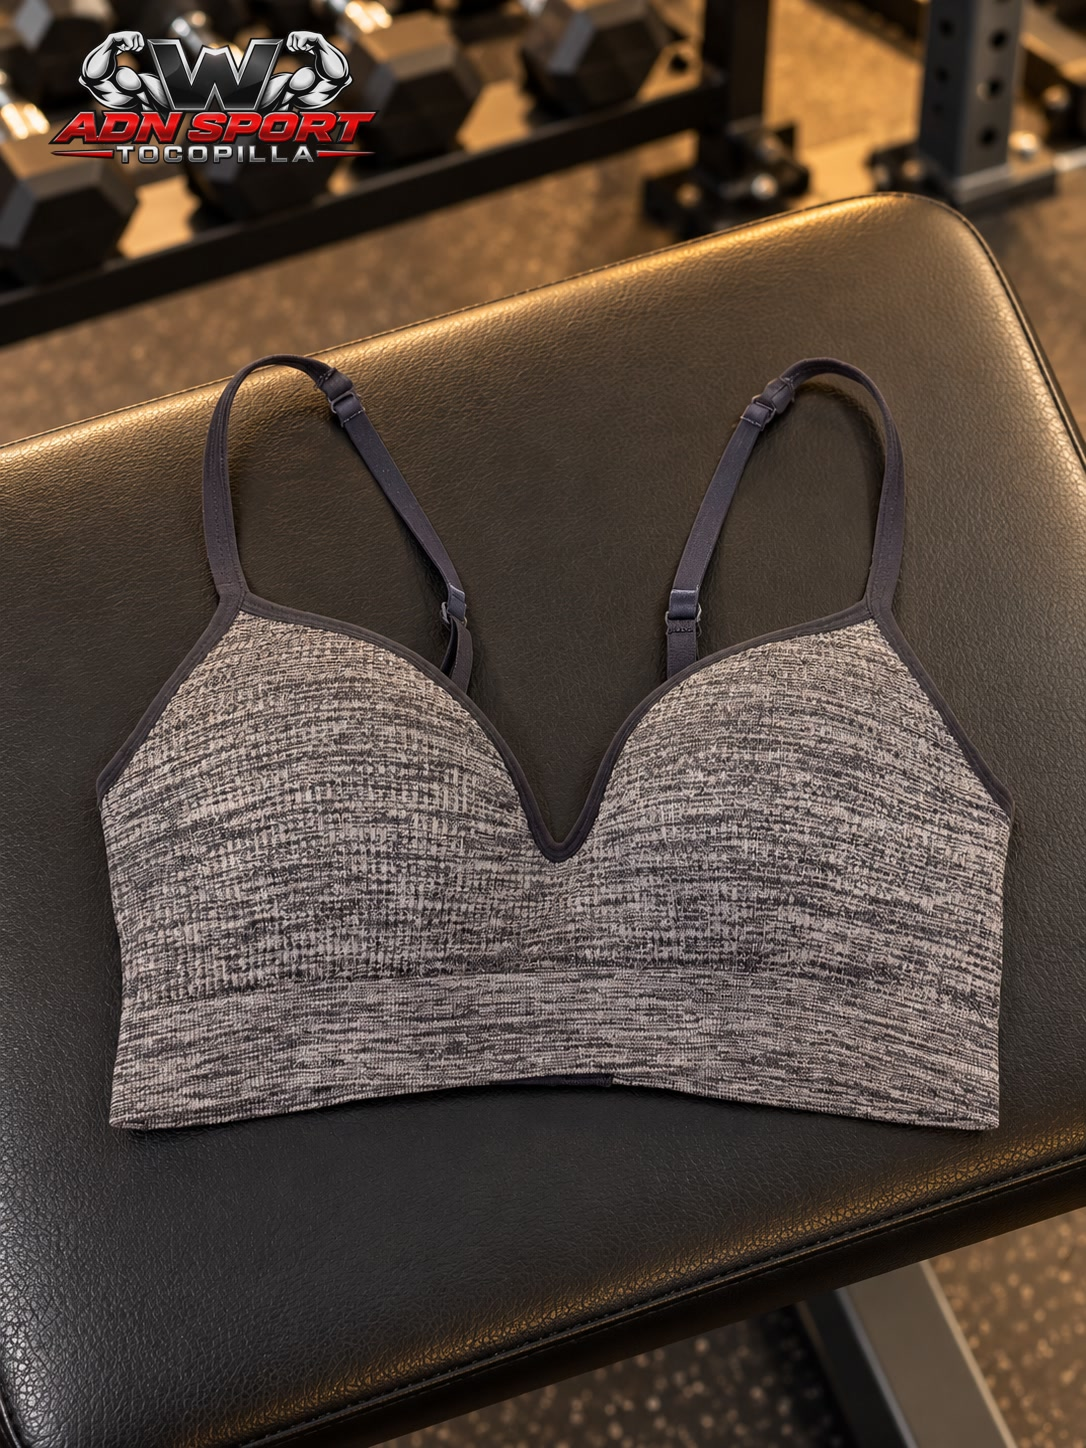
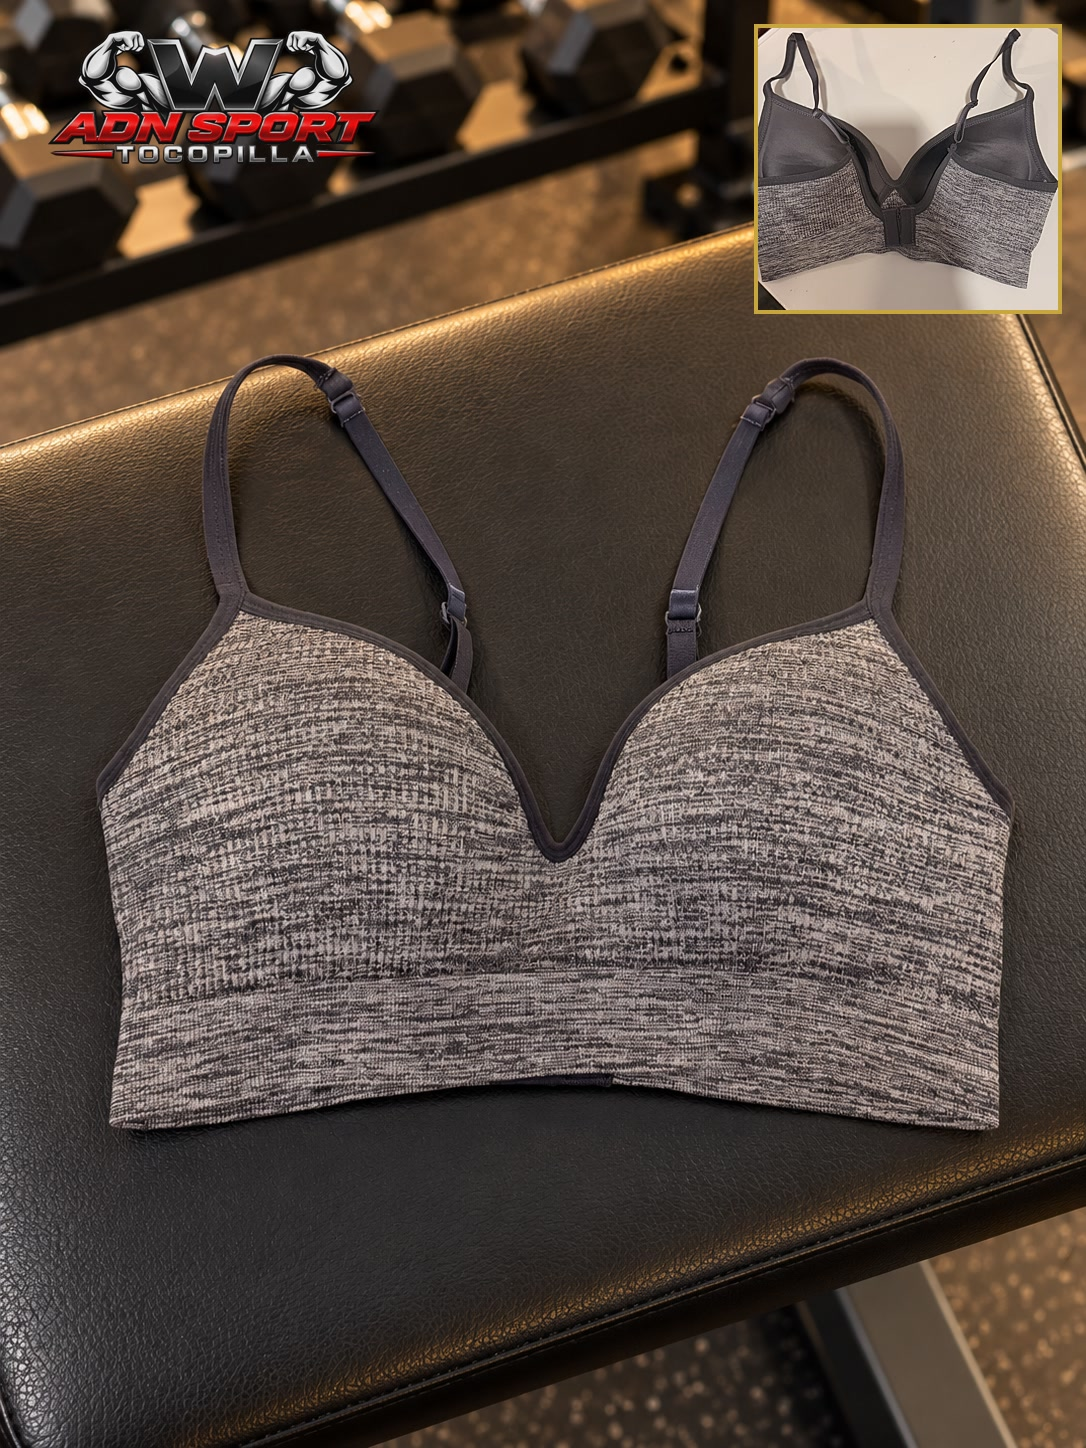
Tienda: top gris con cuadro de la espalda
Claude-Session: https://claude.ai/code/session_013ZgZPSRHEDhMsqmx8Km842

Changed region(s): [[0.6685, 0.0, 1.0, 0.2175]]

diff --git a/tienda.html b/tienda.html
@@ -252,7 +252,7 @@ function hoyISO(){ return new Intl.DateTimeFormat("en-CA", { timeZone:"America/S
 function ahoraTxt(){ var f = new Intl.DateTimeFormat("sv-SE", { timeZone:"America/Santiago", year:"numeric", month:"2-digit", day:"2-digit", hour:"2-digit", minute:"2-digit" }).format(new Date()); return f.replace("T", " ").slice(0, 16); }
 function normTxt(s){ return String(s || "").toUpperCase().normalize("NFD").replace(/[̀-ͯ]/g, ""); }
 /* Al cambiar una foto en img/tienda/ (mismo nombre), subir FOTO_V para que los teléfonos no muestren la antigua. */
-var FOTO_V = "47";
+var FOTO_V = "48";
 function fotoUrl(f){ return f ? f + (f.indexOf("?") < 0 ? "?v=" + FOTO_V : "") : ""; }
 function iconoCat(c){ var x = CATS.filter(function(k){ return k[0] === c; })[0]; return x ? x[1] : "📦"; }
 function toast(t, ms){ var el = $("toast"); el.textContent = t; el.style.display = "block"; clearTimeout(toast.t); toast.t = setTimeout(function(){ el.style.display = "none"; }, ms || 2600); }
@@ -474,7 +474,7 @@ setInterval(function(){ if(pend.length) enviarPendientes(); }, 30000);
    el computador"): los datos se vuelven a pedir a la planilla cada 30 s mientras la página está a la vista (sin una ficha
    abierta), y cada minuto se revisa tienda-version.txt: si hay una versión nueva de la página, se recarga sola.
    Cada vez que se cambie tienda.html, subir TIENDA_VERSION y tienda-version.txt juntos (AAAAMMDDNN). */
-var TIENDA_VERSION = "2026102717";
+var TIENDA_VERSION = "2026102718";
 setInterval(function(){ if(clave && !document.hidden && $("velo").hidden && !$("app").hidden) enviarPendientes().then(function(){ cargar(true); }); }, 30000);
 function revisarVersion(){
  fetch("tienda-version.txt?t=" + Date.now(), { cache:"no-store" }).then(function(r){ return r.ok ? r.text() : ""; }).then(function(v){

diff --git a/tarjeta.html b/tarjeta.html
@@ -2450,7 +2450,7 @@ function renderEvolucion(s){
     oculta con «Ya no lo vendo» no llega. «Lo quiero» abre una ventanita (foto grande, cantidad, total)
     y después WhatsApp a Sara con el pedido. El stock solo baja cuando ella cobra en la tienda.
     Al cambiar una foto de img/tienda/ con el mismo nombre, subir TIENDA_FOTO_V junto con FOTO_V de tienda.html. */
- var TIENDA_FOTO_V = "47", TIENDA_WSP = "56975196394";
+ var TIENDA_FOTO_V = "48", TIENDA_WSP = "56975196394";
  /* Interruptor (25-10-2026, la dueña: "no quiero publicar la tienda el lunes porque compré ropa en Shein y no sé
     cuándo me llegaría"): en false la tarjeta no muestra la tienda aunque la Versión 25 esté instalada.
     Ponerlo en true (y subir TARJETA_VERSION) solo cuando ella lo pida. */
@@ -2572,7 +2572,7 @@ function renderEvolucion(s){
     compara TARJETA_VERSION con tarjeta-version.txt del sitio y, si hay
     una más nueva, la página se recarga sola (el nombre ya aparece
     puesto). Al cambiar tarjeta.html, subir los DOS números juntos. */
- var TARJETA_VERSION = "2026102707", ultimaRevisionVersion = 0;
+ var TARJETA_VERSION = "2026102708", ultimaRevisionVersion = 0;
 function recargarFresco_(v){
  /* Recarga pidiendo la página nueva (11-10-2026): location.reload() podía traer la copia
     guardada del teléfono (GitHub guarda la página ~10 min) y el socio seguía con la versión

diff --git a/CLAUDE.md b/CLAUDE.md
@@ -1552,7 +1552,7 @@ productos» y «Tienda movimientos», acciones `tienda*` de `docs/apps-script/In
   guardado como «Ropa deportiva» se muestra como «Ropa mujer»; en los enlaces usar `cat=Ropa%20mujer` o `cat=Ropa%20hombre`).
   Ropa deportiva de mujer (24-10-2026): cada talla y color es un producto aparte con su código 200… (la ropa no trae
   código). Conjunto Gym Work 3 piezas blanco/negro M ($13.609 → $22.000; foto de espaldas con la modelo + cuadro con la foto original del conjunto, en 900 px de alto), Short scrunch M.Minute negro S (foto `img/tienda/short-scrunch-negro.jpg`, con modelo + cuadro de espalda) y azul oscuro S (foto `img/tienda/short-scrunch-azul.jpg`, igual)
-  (pack de 2 por $7.512 → $3.756 c/u, venta $9.000), Conjunto Easithlete negro M ($8.568; foto con la modelo + cuadro de la espalda, 900 px), Leggings Yefecy negro M ($11.001 → $16.000; foto con modelo de frente + cuadro de espalda), Conjunto Easithlete a $15.000; short negro a $10.000. Ropa de hombre: Polera «Stronger every day» negra M ($7.204 → $13.000; modelo hombre de espaldas + cuadro de frente), Polera Rise LYT raglán negra M ($6.701 → $14.000; modelo hombre de espaldas + cuadro de frente; adelante el diseño de espinas ancho; atrás uno distinto, grande, con alas arriba y una punta larga por la columna), Polera Gym Rark «Never give up» negra M ($7.793 → $15.000; modelo de espaldas + cuadro de frente con el toro), Polera de compresión Gym Rark negra M ($7.051 → $13.000; modelo de espaldas: cuernos blancos grandes + franja roja larga por la columna; cuadro con el mismo modelo de frente con «AGILITY», hecho en ChatGPT), Polera «This is my therapy» negra L ($7.323 → $14.000; modelo de espaldas + cuadro de frente; adelante lleva el toro chico en el pecho izquierdo), Musculosa «//Strength» blanca y negra M ($8.000 → $11.000; foto con modelo hombre de ChatGPT), Musculosa «Boston EST.1997» gris M ($8.000 → $12.000), Musculosa Batman blanca M ($8.000 → $11.000). Short Jogging rojo M (25-10-2026, $7.000 → $13.000; foto `img/tienda/short-jogging-rojo.jpg`: modelo de frente con el logo + cuadro de lado con «JOGGING»; ChatGPT usó el modelo de las máquinas, no el de las poleras). Ropa mujer: Polera Cherry rosada crop S ($3.000 → $6.000) y Polera tie-dye negra y blanca crop S ($2.000 → $5.000), Calza flare camuflaje S-M ($7.000 → $10.000; modelo con el camuflaje verde oliva real + cuadro de espalda), Calza leopardo con malla S ($8.000 → $12.000; modelo de frente + cuadro de espalda hecho en ChatGPT), Calza tie-dye azul y amarilla M ($8.000 → $11.000; foto con modelo de lado + cuadro de frente), Calza tie-dye morada y negra con frunce M ($7.000 → $10.000; foto `img/tienda/calza-tie-dye-morada-negra.jpg`: modelo de espaldas + cuadro de frente); Calza tie-dye verde y negra con frunce M (26-10-2026, igual a la morada en otro color; $7.000 → $10.000 como la morada, por confirmar; foto `img/tienda/calza-tie-dye-verde-negra.jpg`: modelo de espaldas + cuadro de frente, ambos de ChatGPT desde la foto de la morada, + logo); Calza tie-dye azul rey y negra con frunce M (26-10-2026, igual a la verde; foto `img/tienda/calza-tie-dye-azul-negra.jpg`); Short tie-dye turquesa y azul petróleo con frunce, M (26-10-2026; $5.000 → $10.000; foto `img/tienda/short-tie-dye-turquesa.jpg`: modelo de frente + cuadro de espaldas, ambos de ChatGPT desde la foto del short negro, + logo); Polera crop deportiva sin costuras azul jaspeada con zonas caladas, M (26-10-2026; $5.000 → $8.500; foto `img/tienda/polera-crop-azul-jaspeada.jpg`: modelo de frente con calza negra + cuadro de espaldas, ChatGPT desde la foto del short turquesa, + logo); Calza estampada azul rey con verde y blanco, tiro alto, M (26-10-2026; $5.000 → $10.000; foto `img/tienda/calza-estampada-azul-verde.jpg`: modelo de frente con top negro + cuadro de espaldas, ChatGPT desde la foto de la polera crop, + logo); Calza sin costuras rosado coral, tiro alto, con paneles de puntitos a los costados, L (26-10-2026; $6.000 → $12.000; foto `img/tienda/calza-rosada-coral.jpg`: modelo de frente con top negro + cuadro de espaldas, ChatGPT desde la foto de la calza estampada, + logo); Top deportivo negro con ribete azul marino y abertura en gota en la espalda (racerback), XS (26-10-2026; $2.000 → $5.000; foto `img/tienda/top-deportivo-negro-gota.jpg`: modelo de frente con calza negra + cuadro de espaldas, ChatGPT desde la foto de la calza rosada, + logo); Top deportivo azul rey con banda elástica celeste (racerback; la banda trae letras de la marca, que no va en el nombre), XS (26-10-2026; $2.000 → $5.000; foto `img/tienda/top-deportivo-azul-celeste.jpg`: modelo de frente con calza negra + cuadro de espaldas, ChatGPT desde la foto del top negro, + logo); Top deportivo gris jaspeado con copas, tirantes regulables y broche atrás, S-M (27-10-2026; $1.500 → $3.500, 2 unidades; foto `img/tienda/top-deportivo-gris-copas.jpg`: solo la prenda sobre el banco negro, ChatGPT + logo, porque ChatGPT bloqueó la foto con modelo); Short scrunch verde jaspeado sin costuras, tiro alto, M (27-10-2026; misma marca que los shorts negro y azul; $6.000 → $9.000; foto `img/tienda/short-scrunch-verde.jpg`: modelo de frente con top negro + cuadro de perfil caminando, ChatGPT desde la foto del top azul, + logo); Pantalón cargo LA negro, talla S oversize (25-10-2026, 1 unidad, ya lo tiene: $19.000 → $25.000; foto `img/tienda/pantalon-cargo-la-negro.jpg`: modelo de frente con el logo «LA» + cuadro de espaldas); Pantalón cargo jogger azul marino M (26-10-2026, $8.000 → $14.000; foto `img/tienda/pantalon-cargo-jogger-azul.jpg`: modelo de frente + cuadro de espaldas); Pantalón jogger blanco y rojo M (26-10-2026, $5.000 → $10.000; estampados tipo Jordan/Nike Air: se carga sin «Nike» ni «Jordan» en el nombre; foto `img/tienda/pantalon-jogger-blanco-rojo.jpg`, armada por la dueña con logo; el cuadro de espaldas se cambió el 26-10-2026 por uno fiel al pantalón real: atrás las dos piernas iguales, blanco arriba, panel rojo en V al medio y blanco abajo); Pantalón cargo con cordones gris azulado L (26-10-2026, $8.000 → $14.000; cordón cruzado con ojetillos junto a cada bolsillo; foto `img/tienda/pantalon-cargo-cordones-gris.jpg`, armada por la dueña con logo y cuadro de espaldas); Pantalón deportivo celeste con franjas, talla S oversize (26-10-2026, $15.000 → $20.000; dos franjas blancas a cada costado, «DIRECTION» en el muslo, tobillos con cordón; foto `img/tienda/pantalon-deportivo-celeste.jpg`, armada por la dueña con logo y cuadro de espaldas; ChatGPT bloqueó la vista de espaldas hasta que se pidió de perfil en un chat nuevo); Pantalón Wide Leg gris (de punto jaspeado, pierna ancha; nombre «Wide Leg» elegido como forma moderna de decir «patas anchas»), M (26-10-2026, $6.000 → $12.000; foto `img/tienda/pantalon-punto-gris.jpg`: modelo de frente + cuadro de perfil caminando); Pantalón Wide Leg de cotelé crema, M (26-10-2026, $8.000 → $13.000; etiqueta «CARGO PANTS» en el muslo; foto `img/tienda/pantalon-wide-leg-cotele-crema.jpg`: modelo de frente + cuadro de perfil caminando); Pantalón cargo jogger palo rosa, talla S-M (26-10-2026, $8.000 → $12.000; foto `img/tienda/pantalon-cargo-jogger-palo-rosa.jpg`: modelo de frente + cuadro de perfil caminando; se borró «La Administración» que traía la foto de ChatGPT); Polerón jersey 54 negro, M (26-10-2026, $10.000 → $17.500; cuello en V, «54» grande adelante y chico en cada hombro, dos franjas blancas por manga, escudo rojo «1999»; foto `img/tienda/poleron-jersey-54-negro.jpg`: modelo de frente + cuadro de perfil caminando; sin «La Administración»); Top deportivo negro con tiras en la espalda, M (26-10-2026, $5.000 → $9.000; foto `img/tienda/top-deportivo-tiras-negro.jpg`: modelo de espaldas hecha en ChatGPT con la polerón 54 como base, porque con la foto de la modelo de top negro ChatGPT no cambiaba la prenda; cuadro con el top por delante sobre fondo blanco, limpiado en ChatGPT); Visera deportiva blanca tejida (26-10-2026, Accesorios; $5.000 → $8.000; foto `img/tienda/visera-deportiva-blanca.jpg`: modelo con la visera hecha en ChatGPT (bloqueó la primera vez; resultó en chat nuevo) + cuadro con la foto real de la visera recortada sin la etiqueta rosada de otra marca); Cintillo deportivo ancho con nudo, color arena (26-10-2026, Accesorios; $1.000 → $2.500, 2 unidades; foto `img/tienda/cintillo-deportivo-arena.jpg`: modelo con el cintillo hecha en ChatGPT + cuadro con la foto real del cintillo sobre la silla negra); Muñequeras de levantamiento negras con franjas celestes, por par (26-10-2026, Accesorios; $4.000 → $8.000; foto `img/tienda/munequeras-negras-celestes.jpg`: modelo hombre con barra hecha en ChatGPT + logo + cuadro con las muñequeras sobre el banco negro, también de ChatGPT); fotos con modelo hechas por la dueña en ChatGPT. Suplementos en pausa.
+  (pack de 2 por $7.512 → $3.756 c/u, venta $9.000), Conjunto Easithlete negro M ($8.568; foto con la modelo + cuadro de la espalda, 900 px), Leggings Yefecy negro M ($11.001 → $16.000; foto con modelo de frente + cuadro de espalda), Conjunto Easithlete a $15.000; short negro a $10.000. Ropa de hombre: Polera «Stronger every day» negra M ($7.204 → $13.000; modelo hombre de espaldas + cuadro de frente), Polera Rise LYT raglán negra M ($6.701 → $14.000; modelo hombre de espaldas + cuadro de frente; adelante el diseño de espinas ancho; atrás uno distinto, grande, con alas arriba y una punta larga por la columna), Polera Gym Rark «Never give up» negra M ($7.793 → $15.000; modelo de espaldas + cuadro de frente con el toro), Polera de compresión Gym Rark negra M ($7.051 → $13.000; modelo de espaldas: cuernos blancos grandes + franja roja larga por la columna; cuadro con el mismo modelo de frente con «AGILITY», hecho en ChatGPT), Polera «This is my therapy» negra L ($7.323 → $14.000; modelo de espaldas + cuadro de frente; adelante lleva el toro chico en el pecho izquierdo), Musculosa «//Strength» blanca y negra M ($8.000 → $11.000; foto con modelo hombre de ChatGPT), Musculosa «Boston EST.1997» gris M ($8.000 → $12.000), Musculosa Batman blanca M ($8.000 → $11.000). Short Jogging rojo M (25-10-2026, $7.000 → $13.000; foto `img/tienda/short-jogging-rojo.jpg`: modelo de frente con el logo + cuadro de lado con «JOGGING»; ChatGPT usó el modelo de las máquinas, no el de las poleras). Ropa mujer: Polera Cherry rosada crop S ($3.000 → $6.000) y Polera tie-dye negra y blanca crop S ($2.000 → $5.000), Calza flare camuflaje S-M ($7.000 → $10.000; modelo con el camuflaje verde oliva real + cuadro de espalda), Calza leopardo con malla S ($8.000 → $12.000; modelo de frente + cuadro de espalda hecho en ChatGPT), Calza tie-dye azul y amarilla M ($8.000 → $11.000; foto con modelo de lado + cuadro de frente), Calza tie-dye morada y negra con frunce M ($7.000 → $10.000; foto `img/tienda/calza-tie-dye-morada-negra.jpg`: modelo de espaldas + cuadro de frente); Calza tie-dye verde y negra con frunce M (26-10-2026, igual a la morada en otro color; $7.000 → $10.000 como la morada, por confirmar; foto `img/tienda/calza-tie-dye-verde-negra.jpg`: modelo de espaldas + cuadro de frente, ambos de ChatGPT desde la foto de la morada, + logo); Calza tie-dye azul rey y negra con frunce M (26-10-2026, igual a la verde; foto `img/tienda/calza-tie-dye-azul-negra.jpg`); Short tie-dye turquesa y azul petróleo con frunce, M (26-10-2026; $5.000 → $10.000; foto `img/tienda/short-tie-dye-turquesa.jpg`: modelo de frente + cuadro de espaldas, ambos de ChatGPT desde la foto del short negro, + logo); Polera crop deportiva sin costuras azul jaspeada con zonas caladas, M (26-10-2026; $5.000 → $8.500; foto `img/tienda/polera-crop-azul-jaspeada.jpg`: modelo de frente con calza negra + cuadro de espaldas, ChatGPT desde la foto del short turquesa, + logo); Calza estampada azul rey con verde y blanco, tiro alto, M (26-10-2026; $5.000 → $10.000; foto `img/tienda/calza-estampada-azul-verde.jpg`: modelo de frente con top negro + cuadro de espaldas, ChatGPT desde la foto de la polera crop, + logo); Calza sin costuras rosado coral, tiro alto, con paneles de puntitos a los costados, L (26-10-2026; $6.000 → $12.000; foto `img/tienda/calza-rosada-coral.jpg`: modelo de frente con top negro + cuadro de espaldas, ChatGPT desde la foto de la calza estampada, + logo); Top deportivo negro con ribete azul marino y abertura en gota en la espalda (racerback), XS (26-10-2026; $2.000 → $5.000; foto `img/tienda/top-deportivo-negro-gota.jpg`: modelo de frente con calza negra + cuadro de espaldas, ChatGPT desde la foto de la calza rosada, + logo); Top deportivo azul rey con banda elástica celeste (racerback; la banda trae letras de la marca, que no va en el nombre), XS (26-10-2026; $2.000 → $5.000; foto `img/tienda/top-deportivo-azul-celeste.jpg`: modelo de frente con calza negra + cuadro de espaldas, ChatGPT desde la foto del top negro, + logo); Top deportivo gris jaspeado con copas, tirantes regulables y broche atrás, S-M (27-10-2026; $1.500 → $3.500, 2 unidades; foto `img/tienda/top-deportivo-gris-copas.jpg`: solo la prenda sobre el banco negro, ChatGPT + logo, porque ChatGPT bloqueó la foto con modelo; cuadro arriba a la derecha con la foto real de la espalda que mandó la dueña; FOTO_V 48); Short scrunch verde jaspeado sin costuras, tiro alto, M (27-10-2026; misma marca que los shorts negro y azul; $6.000 → $9.000; foto `img/tienda/short-scrunch-verde.jpg`: modelo de frente con top negro + cuadro de perfil caminando, ChatGPT desde la foto del top azul, + logo); Pantalón cargo LA negro, talla S oversize (25-10-2026, 1 unidad, ya lo tiene: $19.000 → $25.000; foto `img/tienda/pantalon-cargo-la-negro.jpg`: modelo de frente con el logo «LA» + cuadro de espaldas); Pantalón cargo jogger azul marino M (26-10-2026, $8.000 → $14.000; foto `img/tienda/pantalon-cargo-jogger-azul.jpg`: modelo de frente + cuadro de espaldas); Pantalón jogger blanco y rojo M (26-10-2026, $5.000 → $10.000; estampados tipo Jordan/Nike Air: se carga sin «Nike» ni «Jordan» en el nombre; foto `img/tienda/pantalon-jogger-blanco-rojo.jpg`, armada por la dueña con logo; el cuadro de espaldas se cambió el 26-10-2026 por uno fiel al pantalón real: atrás las dos piernas iguales, blanco arriba, panel rojo en V al medio y blanco abajo); Pantalón cargo con cordones gris azulado L (26-10-2026, $8.000 → $14.000; cordón cruzado con ojetillos junto a cada bolsillo; foto `img/tienda/pantalon-cargo-cordones-gris.jpg`, armada por la dueña con logo y cuadro de espaldas); Pantalón deportivo celeste con franjas, talla S oversize (26-10-2026, $15.000 → $20.000; dos franjas blancas a cada costado, «DIRECTION» en el muslo, tobillos con cordón; foto `img/tienda/pantalon-deportivo-celeste.jpg`, armada por la dueña con logo y cuadro de espaldas; ChatGPT bloqueó la vista de espaldas hasta que se pidió de perfil en un chat nuevo); Pantalón Wide Leg gris (de punto jaspeado, pierna ancha; nombre «Wide Leg» elegido como forma moderna de decir «patas anchas»), M (26-10-2026, $6.000 → $12.000; foto `img/tienda/pantalon-punto-gris.jpg`: modelo de frente + cuadro de perfil caminando); Pantalón Wide Leg de cotelé crema, M (26-10-2026, $8.000 → $13.000; etiqueta «CARGO PANTS» en el muslo; foto `img/tienda/pantalon-wide-leg-cotele-crema.jpg`: modelo de frente + cuadro de perfil caminando); Pantalón cargo jogger palo rosa, talla S-M (26-10-2026, $8.000 → $12.000; foto `img/tienda/pantalon-cargo-jogger-palo-rosa.jpg`: modelo de frente + cuadro de perfil caminando; se borró «La Administración» que traía la foto de ChatGPT); Polerón jersey 54 negro, M (26-10-2026, $10.000 → $17.500; cuello en V, «54» grande adelante y chico en cada hombro, dos franjas blancas por manga, escudo rojo «1999»; foto `img/tienda/poleron-jersey-54-negro.jpg`: modelo de frente + cuadro de perfil caminando; sin «La Administración»); Top deportivo negro con tiras en la espalda, M (26-10-2026, $5.000 → $9.000; foto `img/tienda/top-deportivo-tiras-negro.jpg`: modelo de espaldas hecha en ChatGPT con la polerón 54 como base, porque con la foto de la modelo de top negro ChatGPT no cambiaba la prenda; cuadro con el top por delante sobre fondo blanco, limpiado en ChatGPT); Visera deportiva blanca tejida (26-10-2026, Accesorios; $5.000 → $8.000; foto `img/tienda/visera-deportiva-blanca.jpg`: modelo con la visera hecha en ChatGPT (bloqueó la primera vez; resultó en chat nuevo) + cuadro con la foto real de la visera recortada sin la etiqueta rosada de otra marca); Cintillo deportivo ancho con nudo, color arena (26-10-2026, Accesorios; $1.000 → $2.500, 2 unidades; foto `img/tienda/cintillo-deportivo-arena.jpg`: modelo con el cintillo hecha en ChatGPT + cuadro con la foto real del cintillo sobre la silla negra); Muñequeras de levantamiento negras con franjas celestes, por par (26-10-2026, Accesorios; $4.000 → $8.000; foto `img/tienda/munequeras-negras-celestes.jpg`: modelo hombre con barra hecha en ChatGPT + logo + cuadro con las muñequeras sobre el banco negro, también de ChatGPT); fotos con modelo hechas por la dueña en ChatGPT. Suplementos en pausa.
   Bebestibles en pausa hasta que llegue más mercadería. Un enlace `?nuevo=1` con un código que ya existe abre ese producto (aunque cambie el nombre). **En los enlaces, todo carácter no ASCII va codificado (á → %C3%A1)**: el de la polera Rise LYT llevaba «raglán» sin codificar, el chat volvió a codificar el enlace y el producto quedó «Polera%20Rise…» en Bebestibles; desde el 24-10-2026 `sinPorcentajes` decodifica los parámetros y `repararCodificados` arregla y vuelve a guardar los nombres que quedaron con %XX.
   **Todo se actualiza solo (24-10-2026, la dueña: "si hago una modificación en el celular, que se cambie igual en el
   computador"):** los datos se piden a la planilla cada 30 s si la página está a la vista y sin ficha abierta, y cada
